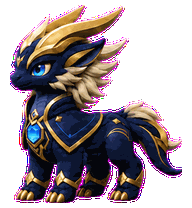
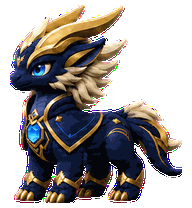
fix(internal): restore settings actions and clean Asterion edge

diff --git a/CHANGELOG.md b/CHANGELOG.md
@@ -2,6 +2,14 @@
 
 All notable changes to Asterion are documented in this file.
 
+## 0.4.1 - 2026-09-04
+
+### Fixed
+
+- Preserve the client-visible port through the internal Nginx proxy so same-origin companion actions work on the temporary test listener
+- Remove chroma-key fringe from Asterion's transparent companion artwork without changing its silhouette
+- Retry the internal Nginx health check during first activation and stop an orphaned service during rollback
+
 ## 0.4.0 - 2026-09-04
 
 ### Added
